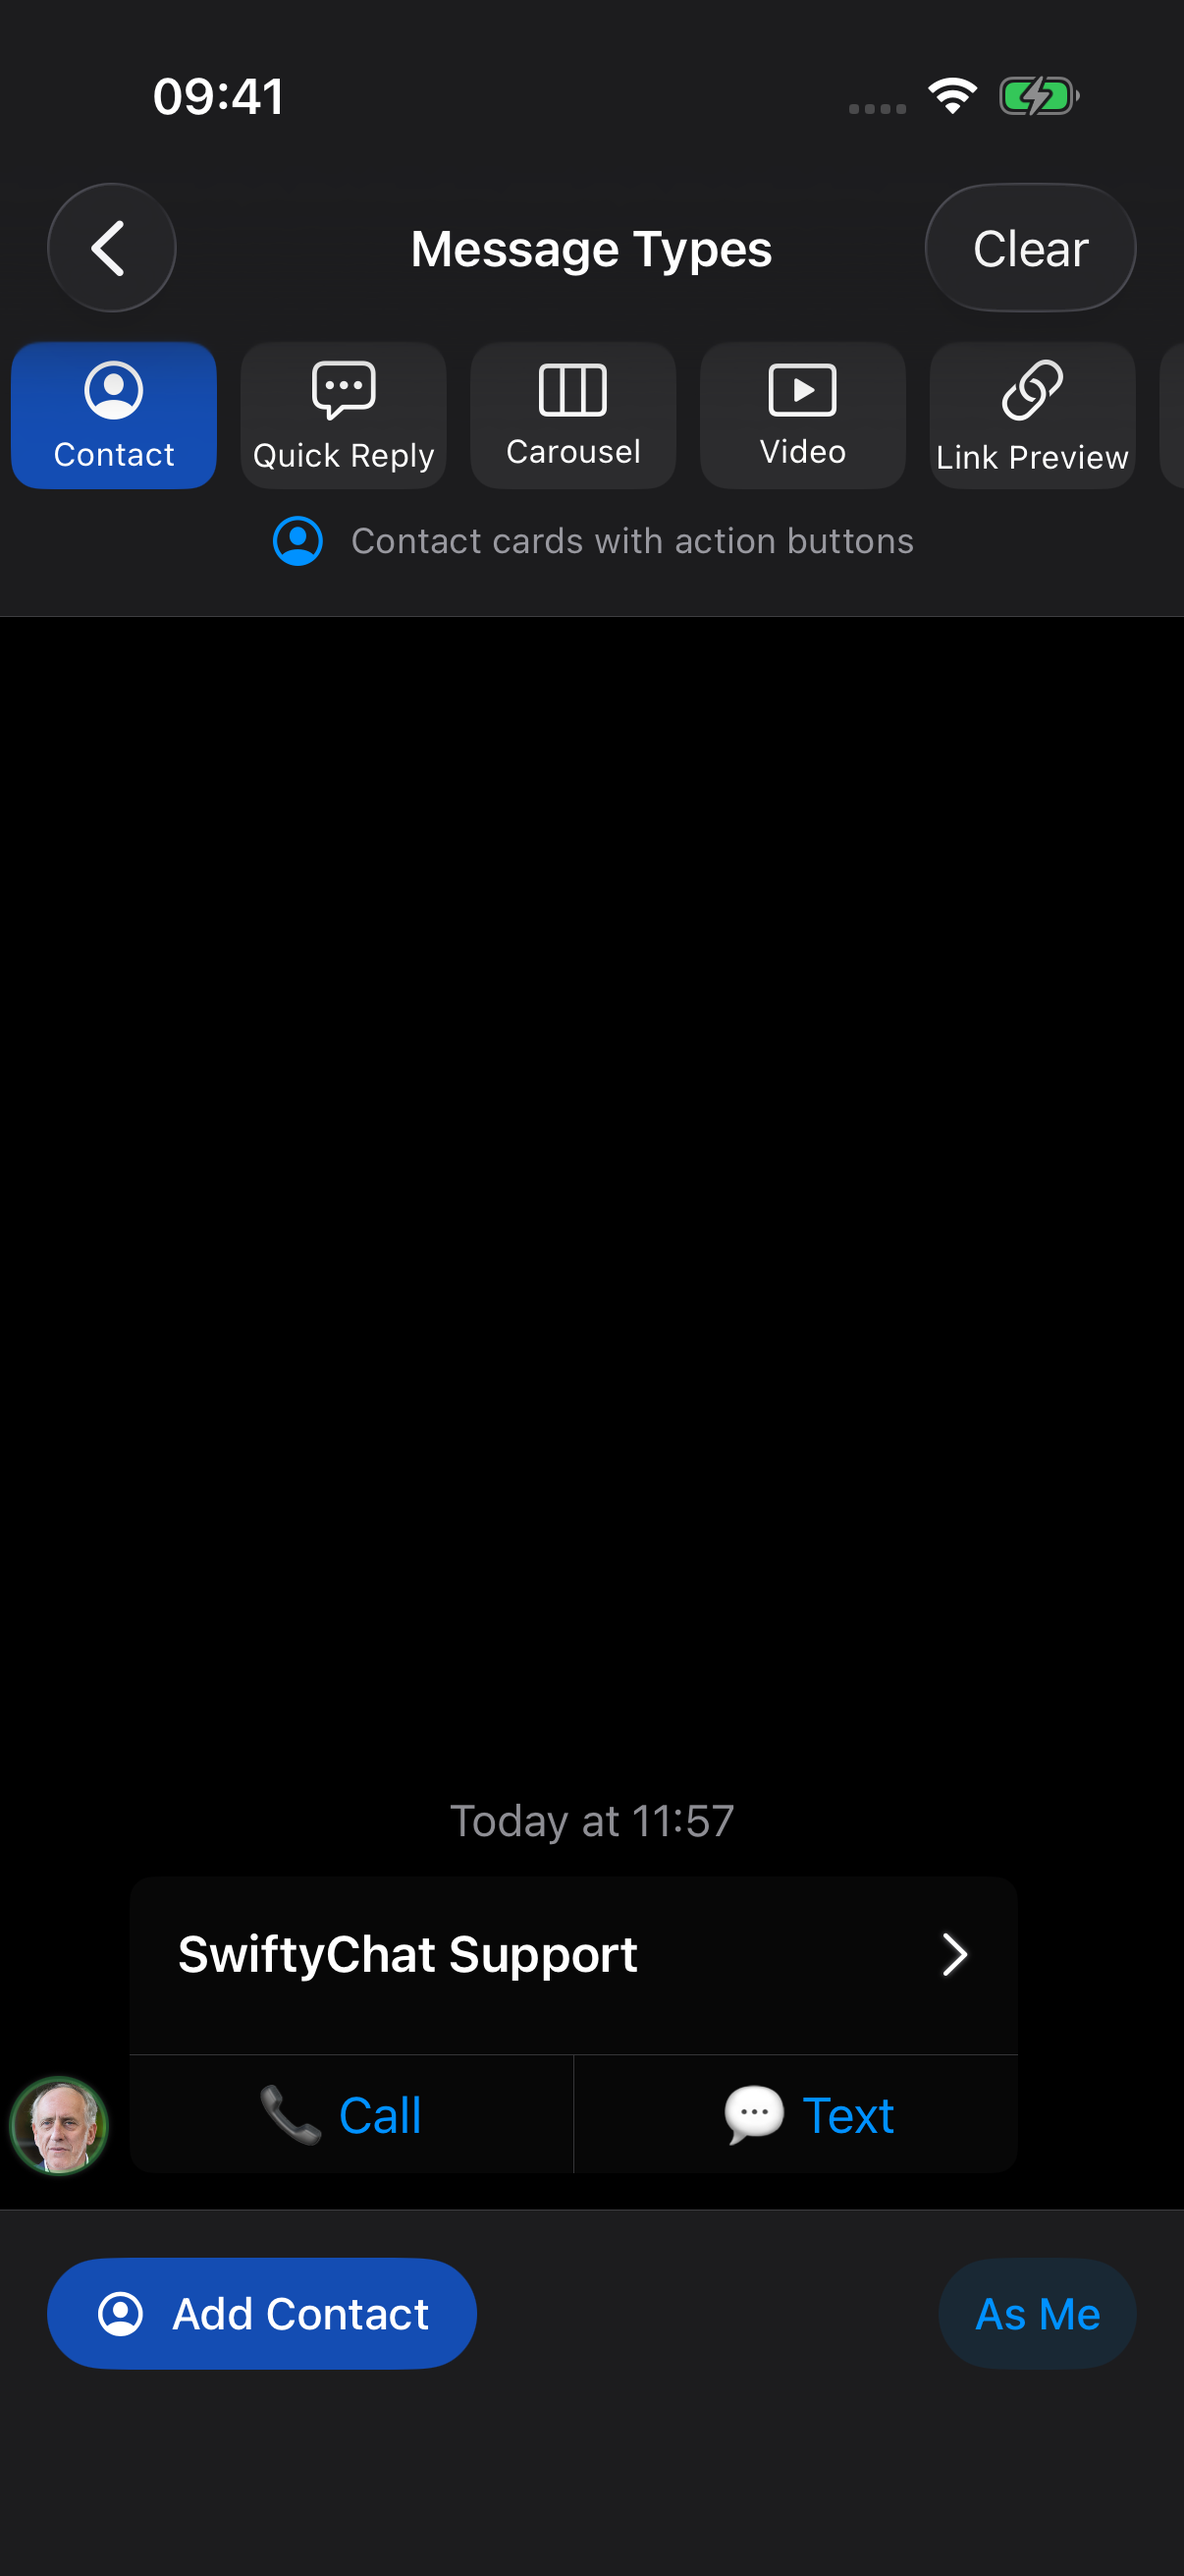
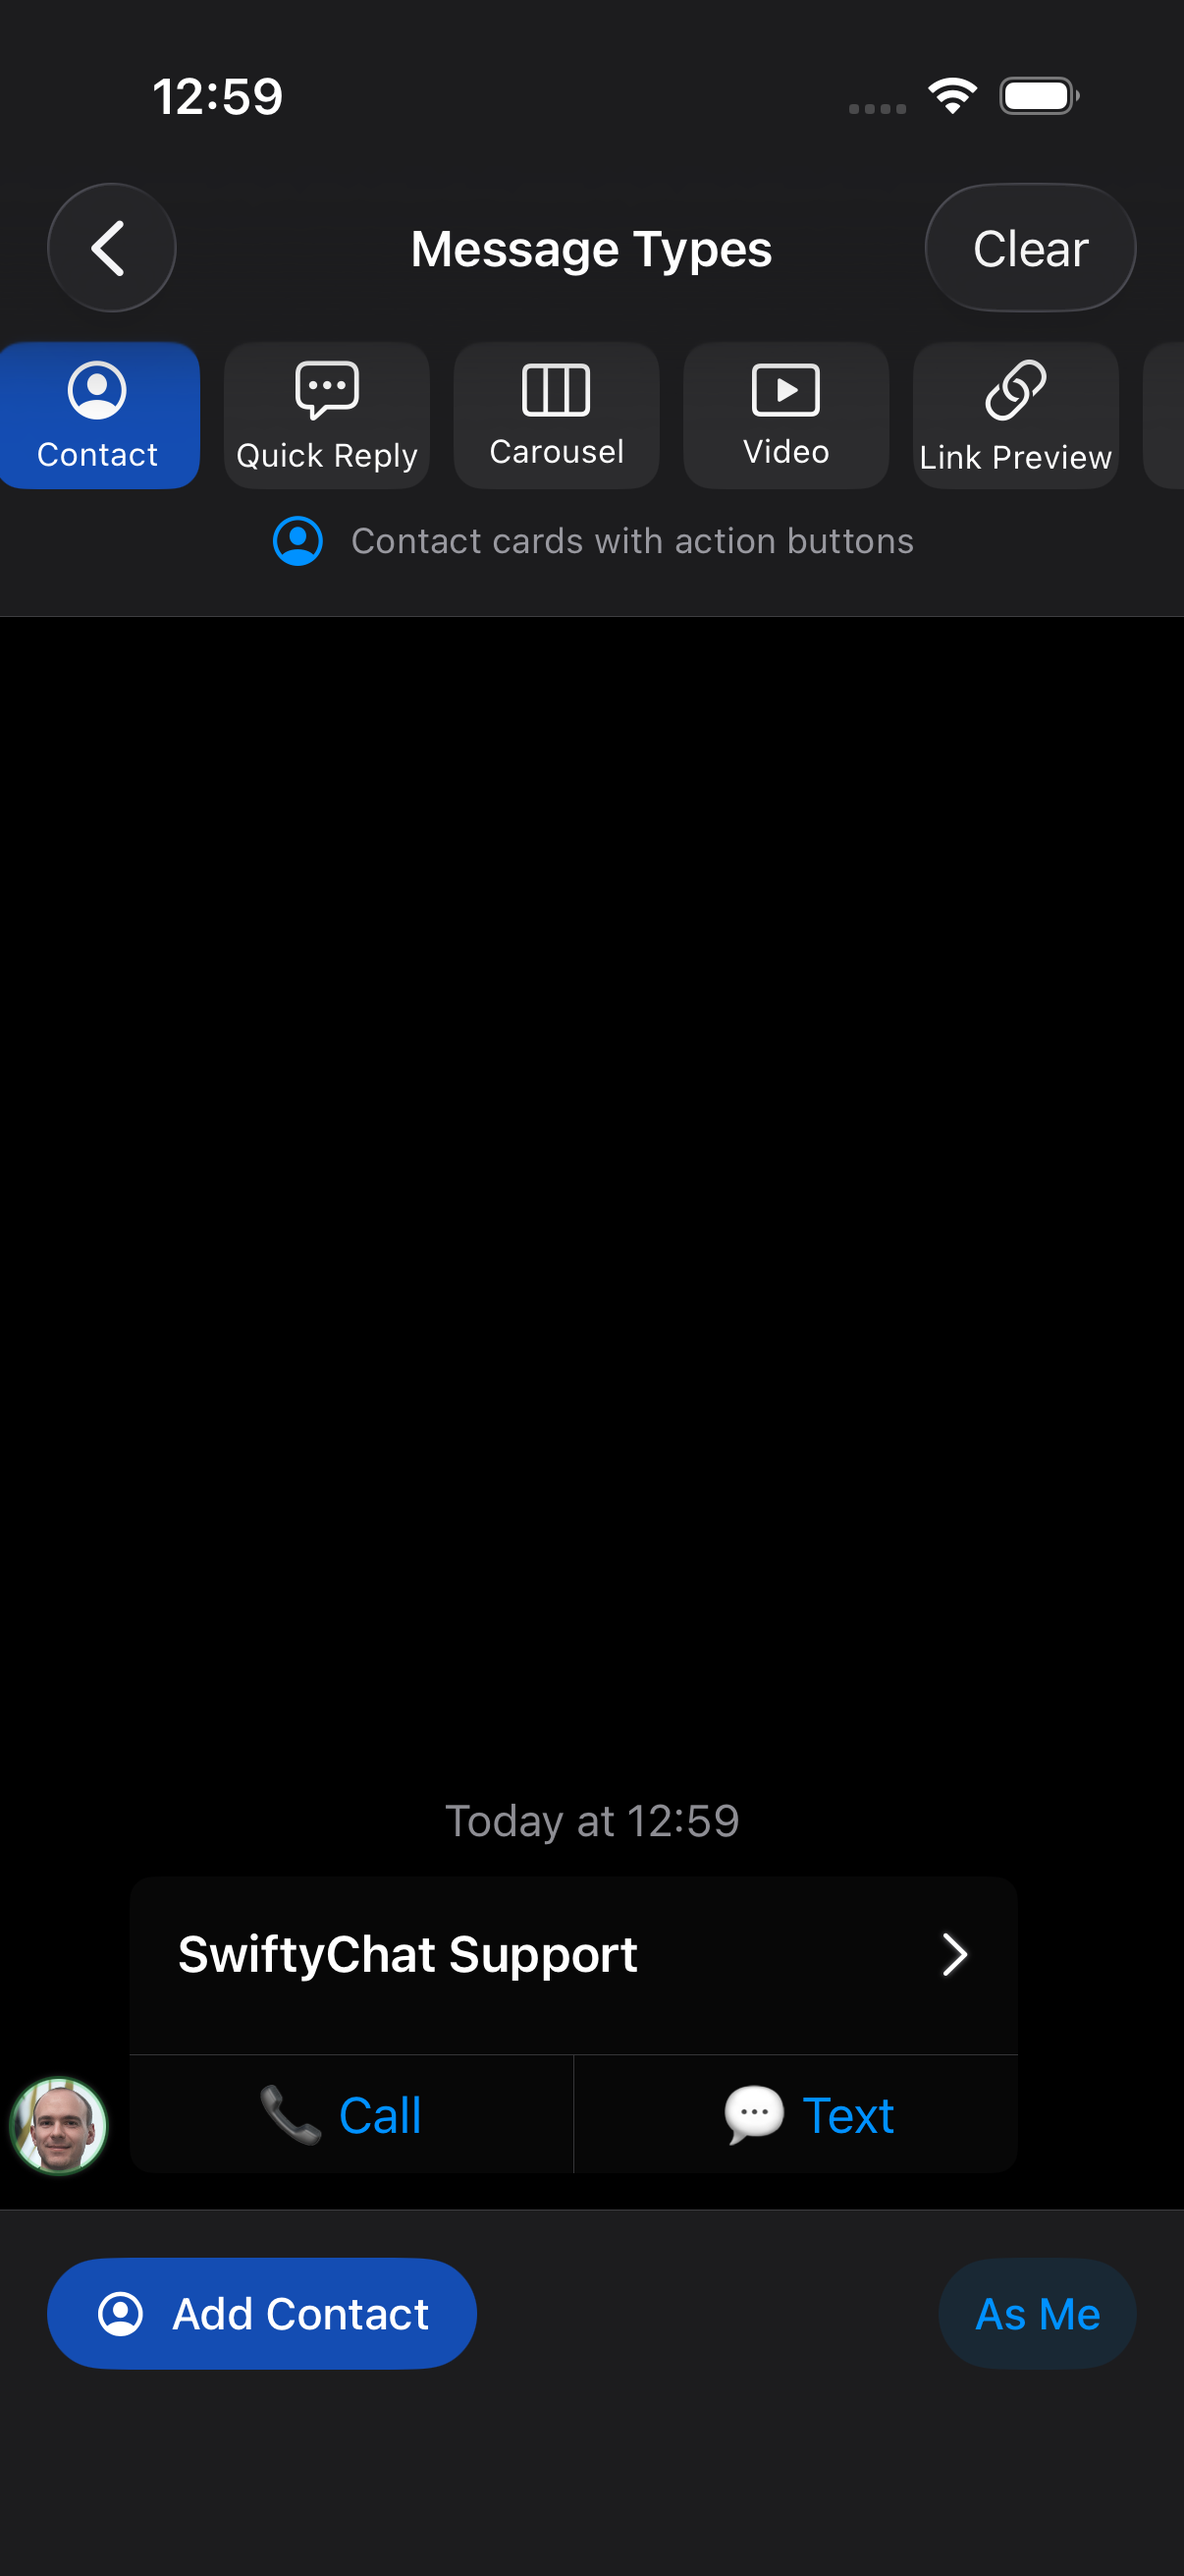
docs: showcase every supported message kind

diff --git a/README.md b/README.md
@@ -1,10 +1,3 @@
-<p align="center">
-  <picture>
-    <source media="(prefers-color-scheme: dark)" srcset="Documentation/Images/carousel-dark.png"/>
-    <img src="Documentation/Images/carousel-light.png" height="480" alt="SwiftyChat demo with messages, quick replies, and an interactive carousel"/>
-  </picture>
-</p>
-
 <h1 align="center">SwiftyChat</h1>
 
 <p align="center">
@@ -36,7 +29,7 @@ Also available for [Flutter](https://github.com/EnesKaraosman/swifty_chat).
 
 ## Why SwiftyChat?
 
-- **11 built-in message types** — text, image, video, location, carousel, quick replies, link previews, contacts, loading indicators, and more
+- **11 message kinds** — text, image, video, location, carousel, quick replies, link previews, contacts, loading indicators, and more
 - **5 demo themes** with full style customization via SwiftUI environment
 - **Cross-platform** — iOS 17+ and macOS 14+ from a single codebase
 - **Lazy message rendering** with linear header calculation and remote image loading
@@ -54,17 +47,29 @@ Also available for [Flutter](https://github.com/EnesKaraosman/swifty_chat).
 
 ## Preview
 
-Current demo captures from the iPhone 17 Pro simulator. See the [style guide](Styles.md) for individual components and all five themes in both appearances.
+Every message kind is shown below. These are current captures from the iPhone 17 Pro simulator; the screenshots follow your light/dark preference. Open the [complete message gallery](Documentation/MessageTypes.md) to compare both appearances side by side.
 
-| Conversation · light | Conversation · dark | Dark Neon |
+| Text and emoji | Images | Images with captions |
 |:---:|:---:|:---:|
-| <img src="Documentation/Images/conversation-light.png" width="230" alt="Guided chat and quick replies in light mode"/> | <img src="Documentation/Images/conversation-dark.png" width="230" alt="The same guided chat in dark mode"/> | <img src="Documentation/Images/theme-neon-light.png" width="230" alt="Dark Neon theme with carousel, contact, and map"/> |
+| <picture><source media="(prefers-color-scheme: dark)" srcset="Documentation/Images/gallery-text-dark.png"/><img src="Documentation/Images/gallery-text-light.png" width="230" alt="Incoming and outgoing text, Markdown, links, and enlarged emoji"/></picture> | <picture><source media="(prefers-color-scheme: dark)" srcset="Documentation/Images/gallery-image-dark.png"/><img src="Documentation/Images/gallery-image-light.png" width="230" alt="Incoming and outgoing photo messages"/></picture> | <picture><source media="(prefers-color-scheme: dark)" srcset="Documentation/Images/gallery-caption-dark.png"/><img src="Documentation/Images/gallery-caption-light.png" width="230" alt="Photo messages with readable captions"/></picture> |
 
-### Adaptive components
+| Locations | Contacts | Carousels |
+|:---:|:---:|:---:|
+| <picture><source media="(prefers-color-scheme: dark)" srcset="Documentation/Images/gallery-location-dark.png"/><img src="Documentation/Images/gallery-location-light.png" width="230" alt="Interactive MapKit location message"/></picture> | <picture><source media="(prefers-color-scheme: dark)" srcset="Documentation/Images/gallery-contact-dark.png"/><img src="Documentation/Images/gallery-contact-light.png" width="230" alt="Contact card with Call and Text actions"/></picture> | <picture><source media="(prefers-color-scheme: dark)" srcset="Documentation/Images/gallery-carousel-dark.png"/><img src="Documentation/Images/gallery-carousel-light.png" width="230" alt="Horizontal cards with images, descriptions, and action buttons"/></picture> |
 
-| Image caption · light | Image caption · dark |
+| Video | Link previews | Quick replies |
+|:---:|:---:|:---:|
+| <picture><source media="(prefers-color-scheme: dark)" srcset="Documentation/Images/gallery-video-dark.png"/><img src="Documentation/Images/gallery-video-light.png" width="230" alt="Video thumbnail with a play control"/></picture> | <picture><source media="(prefers-color-scheme: dark)" srcset="Documentation/Images/gallery-link-preview-dark.png"/><img src="Documentation/Images/gallery-link-preview-light.png" width="230" alt="Rich link card with a title, description, image, and host"/></picture> | <picture><source media="(prefers-color-scheme: dark)" srcset="Documentation/Images/gallery-quick-reply-dark.png"/><img src="Documentation/Images/gallery-quick-reply-light.png" width="230" alt="Selected quick reply, response, and available choices"/></picture> |
+
+### Loading and custom content
+
+These close-ups are rendered from the library using local fixtures. Custom cells can contain your own SwiftUI views.
+
+| Loading indicator | Custom SwiftUI cell |
 |:---:|:---:|
-| <img src="Documentation/Images/components/image-text-light.png" width="320" alt="Image card with a readable dark caption in light mode"/> | <img src="Documentation/Images/components/image-text-dark.png" width="320" alt="Image card with a readable light caption in dark mode"/> |
+| <picture><source media="(prefers-color-scheme: dark)" srcset="Documentation/Images/components/loading-dark.png"/><img src="Documentation/Images/components/loading-light.png" width="300" alt="Animated typing indicator inside a message bubble"/></picture> | <picture><source media="(prefers-color-scheme: dark)" srcset="Documentation/Images/components/custom-dark.png"/><img src="Documentation/Images/components/custom-light.png" width="300" alt="Custom SwiftUI content registered as a message cell"/></picture> |
+
+See the [style guide](Styles.md) for reply quotes, native keyboard layout, and all five demo themes.
 
 ## Installation
 

diff --git a/Documentation/MessageTypes.md b/Documentation/MessageTypes.md
@@ -1,0 +1,101 @@
+# Message gallery
+
+All 11 `ChatMessageKind` cases, with light and dark examples. Emoji are a text-message variant. The simulator samples below come from the demo’s Message Types screen; the custom-cell close-up uses a local SwiftUI fixture.
+
+The gallery uses demo styling. See [Styles.md](../Styles.md) for the default library styles and customization options.
+
+## Text and emoji
+
+`.text(String)` — The demo includes incoming/outgoing text and enlarged emoji-only messages.
+
+| Light | Dark |
+|:---:|:---:|
+| <img src="Images/gallery-text-light.png" width="300" alt="Text and emoji in light mode"/> | <img src="Images/gallery-text-dark.png" width="300" alt="Text and emoji in dark mode"/> |
+
+## Images
+
+`.image(ImageLoadingKind)` — Local and remote images use the same message kind; these samples show remote photos.
+
+| Light | Dark |
+|:---:|:---:|
+| <img src="Images/gallery-image-light.png" width="300" alt="Images in light mode"/> | <img src="Images/gallery-image-dark.png" width="300" alt="Images in dark mode"/> |
+
+## Images with captions
+
+`.imageText(ImageLoadingKind, String)` — The caption shares its card with the image and adapts to the system appearance.
+
+| Light | Dark |
+|:---:|:---:|
+| <img src="Images/gallery-caption-light.png" width="300" alt="Images with captions in light mode"/> | <img src="Images/gallery-caption-dark.png" width="300" alt="Images with captions in dark mode"/> |
+
+## Locations
+
+`.location(LocationItem)` — A native MapKit view displays the supplied coordinates.
+
+| Light | Dark |
+|:---:|:---:|
+| <img src="Images/gallery-location-light.png" width="300" alt="Locations in light mode"/> | <img src="Images/gallery-location-dark.png" width="300" alt="Locations in dark mode"/> |
+
+## Contacts
+
+`.contact(ContactItem)` — The host app supplies contact actions. The demo shows Call and Text buttons.
+
+| Light | Dark |
+|:---:|:---:|
+| <img src="Images/gallery-contact-light.png" width="300" alt="Contacts in light mode"/> | <img src="Images/gallery-contact-dark.png" width="300" alt="Contacts in dark mode"/> |
+
+## Carousels
+
+`.carousel([CarouselItem])` — Cards scroll horizontally and can contain multiple action buttons.
+
+| Light | Dark |
+|:---:|:---:|
+| <img src="Images/gallery-carousel-light.png" width="300" alt="Carousels in light mode"/> | <img src="Images/gallery-carousel-dark.png" width="300" alt="Carousels in dark mode"/> |
+
+More context: [carousel in a conversation · light](Images/carousel-light.png) · [dark](Images/carousel-dark.png).
+
+## Video
+
+`.video(VideoItem)` — The thumbnail opens video playback; this still image shows the play control.
+
+| Light | Dark |
+|:---:|:---:|
+| <img src="Images/gallery-video-light.png" width="300" alt="Video in light mode"/> | <img src="Images/gallery-video-dark.png" width="300" alt="Video in dark mode"/> |
+
+## Link previews
+
+`.linkPreview(LinkPreviewItem)` — The host supplies the displayed metadata and handles taps.
+
+| Light | Dark |
+|:---:|:---:|
+| <img src="Images/gallery-link-preview-light.png" width="300" alt="Link previews in light mode"/> | <img src="Images/gallery-link-preview-dark.png" width="300" alt="Link previews in dark mode"/> |
+
+## Quick replies
+
+`.quickReply([QuickReplyItem])` — The selected set is disabled after selection; a new set remains available.
+
+| Light | Dark |
+|:---:|:---:|
+| <img src="Images/gallery-quick-reply-light.png" width="300" alt="Quick replies in light mode"/> | <img src="Images/gallery-quick-reply-dark.png" width="300" alt="Quick replies in dark mode"/> |
+
+More context: [guided conversation · light](Images/conversation-light.png) · [dark](Images/conversation-dark.png).
+
+## Loading
+
+`.loading` — The three-dot indicator animates in the running app; this is a still capture.
+
+| Light | Dark |
+|:---:|:---:|
+| <img src="Images/gallery-loading-light.png" width="300" alt="Loading in light mode"/> | <img src="Images/gallery-loading-dark.png" width="300" alt="Loading in dark mode"/> |
+
+## Custom content
+
+`.custom(Any)` — This local fixture is rendered from the library. Register any SwiftUI view with `registerCustomCell`; see [CustomMessage.md](../CustomMessage.md).
+
+| Light | Dark |
+|:---:|:---:|
+| <img src="Images/components/custom-light.png" width="300" alt="Custom content in light mode"/> | <img src="Images/components/custom-dark.png" width="300" alt="Custom content in dark mode"/> |
+
+## Capture these examples
+
+Run `Tests/Screenshots/components.yaml` through Maestro with `OUTPUT_DIR` and `APPEARANCE`, or use the [full capture script](Appearance.md#refresh-documentation-assets). Samples are generated by the demo, so text, photos, contacts, and coordinates can differ between runs. Review remote image and map loading before publishing.

diff --git a/Documentation/Appearance.md b/Documentation/Appearance.md
@@ -72,4 +72,4 @@ SWIFTYCHAT_SNAPSHOT_DIR="$PWD/Documentation/Images/components" \
 
 Review the images before committing. Check for clipped text, missing remote content, unreadable controls, and unintended appearance overrides. Avoid replacing native controls with `ImageRenderer` captures: it cannot render every platform view.
 
-The README hero uses a `<picture>` element to match the reader's appearance. The style guide shows both modes side by side so differences remain visible. Demo photos are sample content from the URLs in the demo; the gradient and mountain component fixture is drawn with SwiftUI and an SF Symbol.
+The README gallery uses `<picture>` elements to match the reader's appearance. The [message gallery](MessageTypes.md) and style guide show both modes side by side so differences remain visible. `components.yaml` captures text and emoji, images, captions, locations, contacts, quick replies, carousels, video, link previews, and loading. The custom-cell sample is a local component render. Demo photos are sample content from the URLs in the demo; the gradient and mountain component fixture is drawn with SwiftUI and an SF Symbol.

diff --git a/Styles.md b/Styles.md
@@ -2,6 +2,8 @@
 
 `ChatMessageCellStyle` controls the appearance of each message kind. Inject it with `.environment(\.chatStyle, style)`. Its defaults work on light and dark system backgrounds; custom colors should be checked in both appearances.
 
+See the [message gallery](Documentation/MessageTypes.md) for light/dark examples of every supported kind, including native demo captures.
+
 ## System appearance
 
 Use semantic colors such as `.primary` for text on adaptive surfaces. Set foreground and background together when using a fixed fill. SwiftyChat inherits the host app's appearance and does not force a color scheme.

diff --git a/CHANGELOG.md b/CHANGELOG.md
@@ -13,6 +13,7 @@
 ### Documentation and tests
 
 - Replaced outdated previews with current light/dark simulator captures and component renders, with a repeatable capture script.
+- Added a message-type gallery covering all 11 kinds and replaced repetitive README previews with distinct examples.
 - Added appearance contrast and rendering checks, expanded theme smoke coverage, and added video overlay smoke tests.
 
 ---
